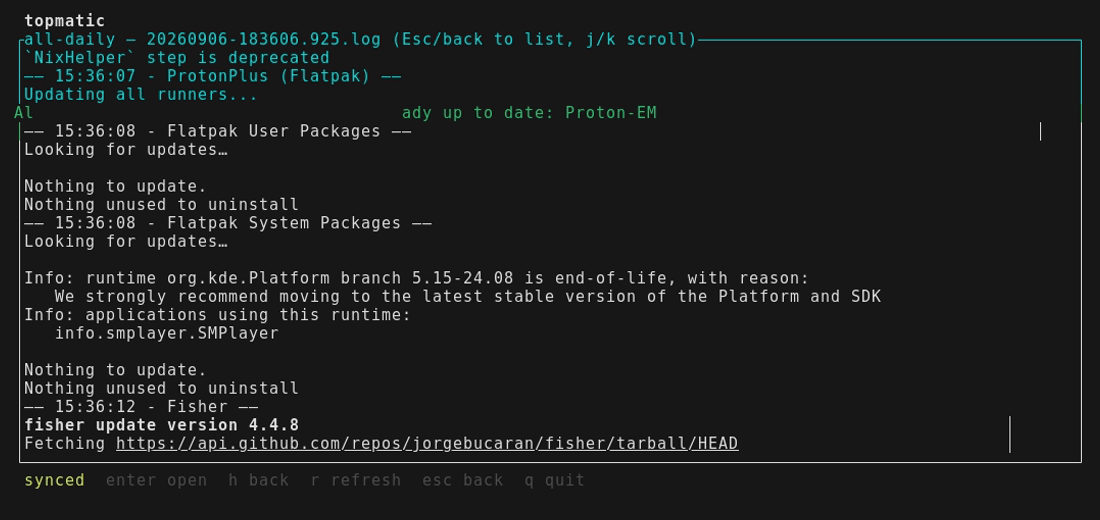
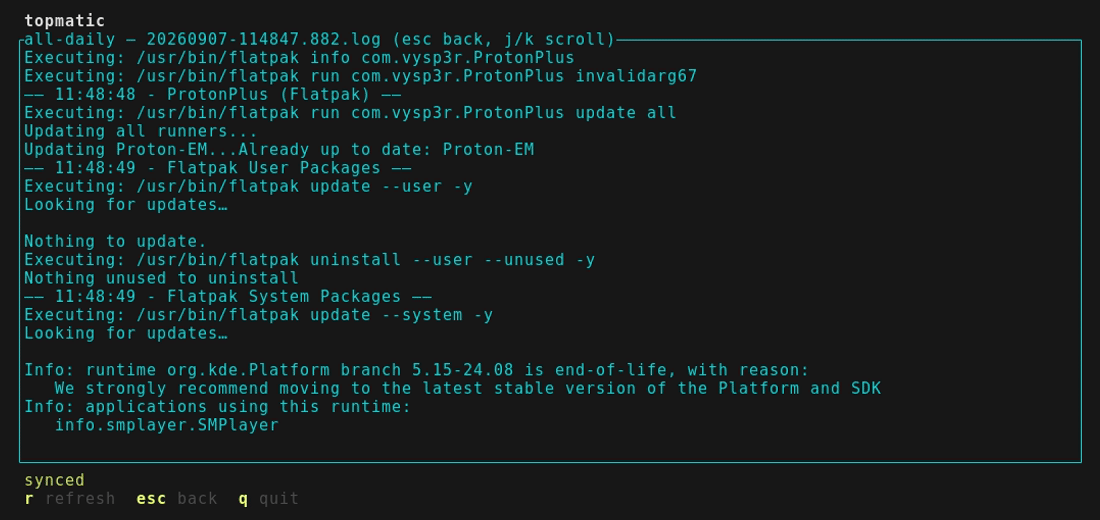
Rewrite the README concisely without dashes or semicolons and refresh the screenshots
Drop the em-dashes and semicolons across the README, tighten the why/use
and keys paragraphs, replace the stale save-row editor description with
the current section flow and overlay model, and regenerate all four
screenshots (editor tape now walks the custom entry since presets
activate instantly).

diff --git a/README.md b/README.md
@@ -1,21 +1,21 @@
 # topmatic
 
-Your user-level tools, updated automatically — without sudo.
+Your user-level tools updated automatically without sudo.
 
 ![dashboard](docs/assets/dashboard.png)
 
-Flatpaks, cargo installs, npm globals, pipx apps… [topgrade](https://github.com/topgrade-rs/topgrade) already knows how to update all of them. topmatic turns topgrade into scheduled jobs you manage from a TUI: pick what to update, when, and forget it.
+Flatpaks, cargo installs, npm globals, pipx apps. [topgrade](https://github.com/topgrade-rs/topgrade) already knows how to update all of them. topmatic turns topgrade into scheduled jobs you manage from a TUI. Pick what to update and when, then forget it.
 
 ## Why
 
-- You want automatic updates of **your** software, without root, daemons or cron hacks
-- Your own topgrade config stays untouched — topmatic always runs topgrade with an isolated config
+- Automatic updates of **your** software without root, daemons or cron hacks
+- Your own topgrade config stays untouched. topmatic always runs topgrade with an isolated config
 - Machines are off sometimes: timers are `Persistent=` and catch up missed runs
-- Jobs run at minimum priority (`Nice=19`, batch CPU, idle IO) — never in your way
-- Schedules are frequencies anchored at midnight with a small random delay (≤5min), so nothing hammers mirrors at the same second
-- Flaky runs self-heal: steps retry immediately, failed runs retry with growing delays behind a connectivity check, and you only hear about a failure that survived all of that
-- Self-healing: every start rewrites drifted unit files, prunes stray schedule overrides and removes orphan timers of profiles that no longer exist; `topmatic doctor` diagnoses and `topmatic reset` starts clean
-- Owns only what it proves: a timer is only ever touched if it carries topmatic's schedule drop-in (`topmatic@<profile>.timer.d/10-schedule.conf`), so timers created by other tools — even ones named `topmatic@*` — are left alone with a note instead of being deleted
+- Jobs run at minimum priority (`Nice=19`, batch CPU, idle IO) so they never get in your way
+- Schedules are frequencies anchored at midnight with a small random delay (≤5min) so nothing hammers mirrors at the same second
+- Flaky runs self-heal. Steps retry immediately, failed runs retry behind a connectivity check, and you only hear about a failure that survived all of it
+- Every start repairs drift: unit files are rewritten, stray overrides pruned, orphan timers removed. `topmatic doctor` diagnoses and `topmatic reset` starts clean
+- A timer is only touched if it carries topmatic's schedule drop-in (`topmatic@<profile>.timer.d/10-schedule.conf`). Timers from other tools, even ones named `topmatic@*`, are left alone with a note
 
 ## Requirements
 
@@ -29,28 +29,28 @@ Flatpaks, cargo installs, npm globals, pipx apps… [topgrade](https://github.co
 cargo install --git https://github.com/c4i0b/topmatic
 ```
 
-Then run `topmatic` once: it installs the systemd user units and converges the timers to your config. To let timers fire while you are logged out, enable lingering yourself (`loginctl enable-linger`) — topmatic shows its state and explains it, but never runs anything privileged.
+Then run `topmatic` once. It installs the systemd user units and converges the timers to your config. To let timers fire while you are logged out enable lingering yourself (`loginctl enable-linger`). topmatic shows its state and explains it but never runs anything privileged.
 
 ## Use
 
 ```sh
 topmatic          # TUI
 topmatic list     # profiles, next run, last status
-topmatic doctor   # diagnose + auto-repair unit drift (shows the effective run policy)
+topmatic doctor   # diagnose and repair unit drift
 topmatic doctor --repair  # quarantine a broken config and start fresh
 topmatic sync     # converge systemd units to the config
 topmatic edit     # back up the config, edit it with $EDITOR, then sync
 topmatic run <profile> [--dry-run]
-topmatic reset [--all]   # remove units/schedules/history; --all also archives the config
+topmatic reset [--all]   # remove units, schedules and history. --all also archives the config
 ```
 
-Presets work as overlays: picking one in the TUI activates it immediately (no name, no editor) under its suggested name — `All` runs everything installed with no step list at all, and steps topgrade gains later are included automatically. Editing a preset-based profile works like any other, but the config keeps only what you changed: `extra_steps`/`excluded_steps` adjust the preset selection and an untouched override disappears from the file again.
+Presets work as overlays. Picking one in the TUI activates it immediately under its suggested name, no name to type and no editor to cross. `All` runs everything installed with no step list and picks up steps topgrade gains later. Editing a preset profile works like any other but the config keeps only what you changed. `extra_steps` and `excluded_steps` adjust the selection and a reverted override disappears from the file again.
 
-Keys per screen (the footer always shows them): home `↑↓ move`, `n` new (from a preset), `e` edit, `d` delete, `r` run now (opens the live log view right away — output streams in while it runs, `x` stops the run, `esc` goes back while the dashboard badge keeps tracking `running · 42s`), `l` logs, `/` filter, `?` help overlay, `q` quit (lower or upper case; while a filter is active, `q` is just a letter). Editor: `↑↓←→ move`, `enter` toggle steps or choose a row, `ctrl+a` all, `ctrl+d` none (mark/clear the filtered steps), `tab` section, `ctrl+s` save from anywhere (`esc` asks to save when there are changes), `esc` back. Presets: `enter` choose. Logs: `enter` open, `r` refresh, `esc` back. Mouse click/scroll works and `L` toggles the activity panel. The right pane shows live details for the selected profile: schedule, countdown to next fire, timer state and the tail of the last run log.
+Keys per screen (the footer always shows them). Home: `↑↓ move`, `n` new, `e` edit, `d` delete, `r` run now (opens the live log right away, `x` stops the run, `esc` goes back), `l` logs, `/` filter, `?` help, `q` quit. Editor: `↑↓←→ move`, `enter` toggle steps or choose a row, `ctrl+a` all, `ctrl+d` none, `tab` section, `ctrl+s` save from anywhere, `esc` back (it asks to save when there are changes). Presets: `enter` choose. Logs: `enter` open, `r` refresh, `esc` back. Mouse click and scroll work. `L` toggles the activity panel. The right pane shows schedule, countdown, timer state and the tail of the last run.
 
-The editor cycles its sections with `Tab` — steps, schedule, options, save — and `Enter` acts on the highlighted row: it toggles a step, opens a picker for the schedule frequency or for notifications, or opens the save flow from the save row — name, then a summary with Confirm/Cancel (a `*` marks unsaved changes). Schedules are frequencies anchored at midnight — daily, every 6 or 12 hours, weekly, every 2 weeks or monthly; missed runs catch up on the next boot.
+The editor cycles its sections with `Tab`: steps, schedule, options. `Enter` toggles a step or opens a picker for the schedule frequency or notifications. Schedules are frequencies anchored at midnight (daily, every 6 or 12 hours, weekly, every 2 weeks or monthly) and missed runs catch up on the next boot.
 
-New profiles start from a preset — everything user-level, dev tools or Flatpak — with steps pre-selected, a suggested name and the default schedule; tweak anything before saving. Presets are computed live from your installed topgrade, so they always match its step list.
+Custom profiles start from the picker's custom entry and select steps from the live topgrade catalog, so the grid always matches what is installed.
 
 ![editor](docs/assets/editor.png)
 
@@ -62,16 +62,16 @@ Every run leaves a log you can browse with `l`:
 
 ![logs](docs/assets/logs.png)
 
-Profiles live in `~/.config/topmatic/config.toml` — edit it by hand or via TUI, both are first-class; topmatic reconciles systemd to match it on every start. A `[defaults]` table tunes the run behavior for every profile (`retries`, `retry_delay`, `give_up_after`, `network_wait`, `random_delay` as `2min`-style values); `config.example.toml`, regenerated next to it, documents every key with the current defaults.
+Profiles live in `~/.config/topmatic/config.toml`. Edit it by hand or via TUI, both are first class. topmatic reconciles systemd to match it on every start. A `[defaults]` table tunes run behavior for every profile (`retries`, `retry_delay`, `give_up_after`, `network_wait`, `random_delay` as `2min`-style values). `config.example.toml`, regenerated next to it, documents every key.
 
 ### Schedules as dotfiles
 
-`~/.config/topmatic/config.toml` is the single source of truth and safe to share between machines (e.g. into your dotfiles repo). On a new machine, just restore that file and run `topmatic` once: it installs the unit templates and re-creates every timer with the schedule from the config. Do **not** share `~/.local/state/topmatic` (run history and logs are machine-local) or `~/.config/systemd/user` — those units regenerate automatically, and stale symlinks are repaired by the sync.
+`~/.config/topmatic/config.toml` is the single source of truth and safe to share between machines, for example into your dotfiles repo. On a new machine restore that file and run `topmatic` once. It installs the unit templates and recreates every timer. Do **not** share `~/.local/state/topmatic` (run history and logs are machine local) or `~/.config/systemd/user`. Those units regenerate automatically and stale symlinks are repaired by the sync.
 
 Two safety guarantees around the sync:
 
 - A timer without a matching profile but **with** topmatic's schedule drop-in is an orphan of a removed profile and gets cleaned up.
-- A `topmatic@*` timer **without** topmatic's drop-in was created by something else — topmatic leaves it alone and just reports it, so other tools can coexist without their jobs being deleted.
+- A `topmatic@*` timer **without** topmatic's drop-in was created by something else. topmatic leaves it alone and just reports it so other tools can coexist.
 
 ## Development
 
@@ -79,7 +79,7 @@ Two safety guarantees around the sync:
 just check # fmt + clippy + tests
 ```
 
-`just --list` shows every recipe. Tests use stubs instead of real topgrade/systemd, so they run anywhere a Rust toolchain exists; the only exception is `tests/systemd_integration.rs`, which needs a real user systemd and skips otherwise.
+`just --list` shows every recipe. Tests use stubs instead of real topgrade/systemd so they run anywhere a Rust toolchain exists. The only exception is `tests/systemd_integration.rs`, which needs a real user systemd and skips otherwise.
 
 ## License
 
